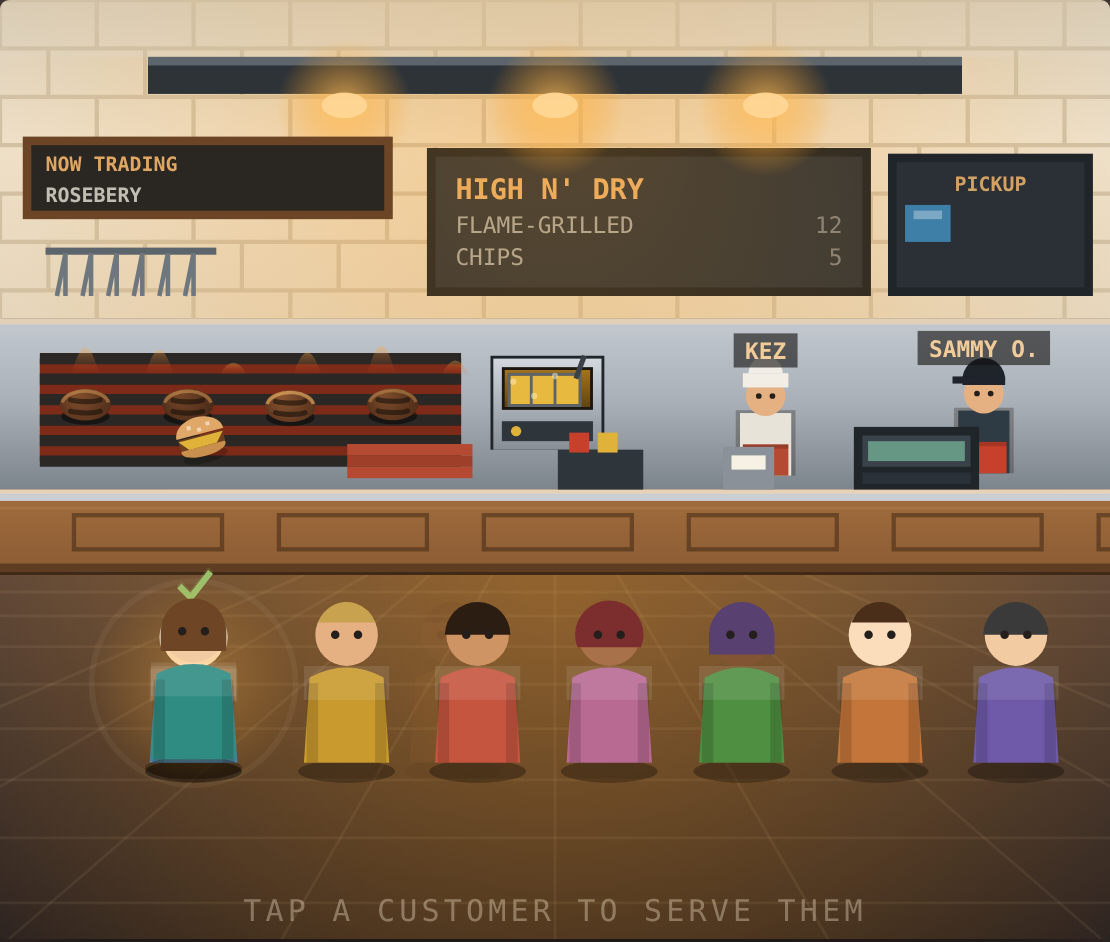
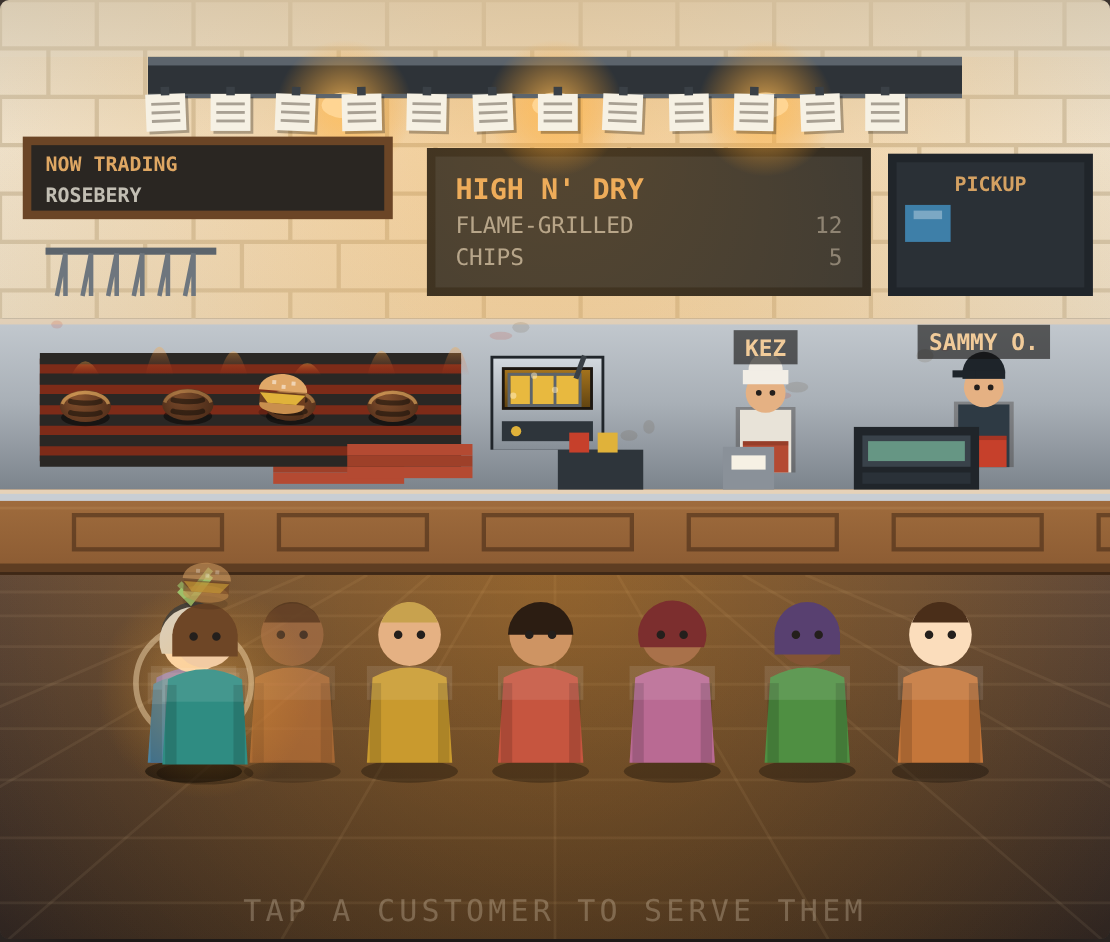
E4: the ambient density curve
The tier ladder is stepped; this is what stops there being a flat stretch between
the steps. Off total units owned: a docket rail hanging from the heat-lamp bar
that fills with orders, trays stacking by the pass, mess accumulating on the
bench, and a crew that visibly works faster as the shop gets going.

Mess positions are deterministic so nothing twitches between frames.

The rail first went across the bays and was almost entirely hidden behind the
fryer and the crew. It now hangs off the lamp bar, where a real one does.

Claude-Session: https://claude.ai/code/session_01Nf1L2bLaTRsJDxqU3yBDPc

diff --git a/high-n-dry-clicker/src/ui/scene.ts b/high-n-dry-clicker/src/ui/scene.ts
@@ -156,6 +156,12 @@ export interface Business {
   /** Who is standing where, by generator index. */
   staffNames: Record<number, string>;
   /**
+   * 0..1 how much shop there is, from total units owned. Drives the continuous stuff — dockets on
+   * the rail, mess on the bench, trays, how fast the crew move. The tier ladder is stepped; this
+   * is what stops there being a flat stretch between the steps (PLAN_THE_LINE.md 2.5).
+   */
+  density: number;
+  /**
    * Tier upgrades owned per generator, 0-3 (the x2s at 10/25/50 owned). Each step physically
    * replaces the equipment — see PLAN_THE_LINE.md 2.1. Until this landed, the 36 most
    * significant purchases in the game were invisible.
@@ -180,6 +186,7 @@ export class Scene {
     busy: 0,
     autoServesPerSecond: 0,
     staffNames: {},
+    density: 0,
     tiers: [],
   };
 
@@ -616,9 +623,11 @@ export class Scene {
     this.drawMenuBoard();
     this.drawLamp(t);
     this.drawBench();
+    this.drawBenchClutter();
     this.drawGrill(t);
     this.drawPatties(t);
     this.drawStations(t);
+    this.drawDocketRail();
     this.drawSmoke();
     this.drawGrease();
     this.drawCounter();
@@ -1380,7 +1389,8 @@ export class Scene {
     role: "cook" | "server",
   ): void {
     const ctx = this.ctx;
-    const bob = Math.sin(t * 3 + phase) * 1.2;
+    // They work faster when the shop is going — the crew are part of the tempo readout.
+    const bob = Math.sin(t * (3 + this.business.busy * 3.5) + phase) * (1.2 + this.business.busy * 0.7);
     const y = groundY + bob;
     // Whites on a light stainless bench need an edge or they dissolve into it.
     ctx.fillStyle = "rgba(40,30,22,0.3)";
@@ -1444,6 +1454,67 @@ export class Scene {
     // Lamplight catching the front lip of the stainless.
     ctx.fillStyle = "rgba(255,214,160,0.5)";
     ctx.fillRect(0, BENCH_TOP, W, 2);
+  }
+
+  /**
+   * The bench, lived-in. A docket rail that fills up, trays that stack, and mess that accumulates
+   * — all off `density`, all deterministic so nothing twitches between frames.
+   */
+  private drawBenchClutter(): void {
+    const ctx = this.ctx;
+    const d = this.business.density;
+
+    // Trays stacked by the pass. A busy shop runs through them.
+    const trays = 1 + Math.round(d * 5);
+    for (let i = 0; i < trays; i += 1) {
+      ctx.fillStyle = i % 2 === 0 ? "#B44A32" : "#9E4029";
+      ctx.fillRect(96, COUNTER_TOP - 6 - i * 4, 46, 4);
+    }
+
+    // Mess. Deterministic positions so it never twitches, and it only ever accumulates.
+    const spots = Math.round(d * 14);
+    for (let i = 0; i < spots; i += 1) {
+      const x = 20 + ((i * 6151) % (W - 40));
+      const y = BENCH_TOP + 2 + ((i * 3719) % 46);
+      ctx.fillStyle = i % 3 === 0 ? "rgba(198,64,43,0.16)" : "rgba(90,70,40,0.14)";
+      ctx.beginPath();
+      ctx.ellipse(x, y, 2 + ((i * 13) % 4), 1.4 + ((i * 7) % 3) * 0.5, 0, 0, Math.PI * 2);
+      ctx.fill();
+    }
+  }
+
+  /**
+   * Orders on. Hangs off the heat-lamp bar where a real rail does, and fills as the business
+   * grows. Purely scenery — it says how much work is on, it isn't a control. (The docket-to-rail
+   * *interaction* was cut in M2 because it read as an instruction; this is the furniture.)
+   */
+  private drawDocketRail(): void {
+    const ctx = this.ctx;
+    const tickets = Math.round(this.business.density * 12);
+    if (tickets === 0) return;
+
+    const railY = LAMP_BAR_Y + 13;
+    ctx.fillStyle = "#5C646C";
+    ctx.fillRect(52, railY, W - 104, 1.5);
+
+    for (let i = 0; i < tickets; i += 1) {
+      const x = 58 + i * 23;
+      if (x > W - 62) break;
+      const lean = (((i * 37) % 5) - 2) * 0.02;
+      ctx.save();
+      ctx.translate(x, railY);
+      ctx.rotate(lean);
+      ctx.fillStyle = "rgba(0,0,0,0.28)";
+      ctx.fillRect(-6, 1, 14, 13);
+      ctx.fillStyle = "#F6F1E4";
+      ctx.fillRect(-7, 0, 14, 13);
+      ctx.fillStyle = "rgba(90,80,66,0.5)";
+      for (let l = 0; l < 3; l += 1) ctx.fillRect(-5, 3 + l * 3, 10, 1);
+      // The peg it hangs on.
+      ctx.fillStyle = "#3A4046";
+      ctx.fillRect(-1.5, -2.5, 3, 3);
+      ctx.restore();
+    }
   }
 
   private drawGrill(t: number): void {

diff --git a/high-n-dry-clicker/src/ui/App.tsx b/high-n-dry-clicker/src/ui/App.tsx
@@ -213,6 +213,7 @@ export default function App(): JSX.Element {
         busy,
         autoServesPerSecond: Math.min(4, Math.log10(1 + d.cps) * 0.5),
         staffNames: staffNames(state),
+        density: Math.min(1, Math.log10(1 + totalGenerators(state)) / 2.4),
         tiers: stationTiers(state),
       });
       audio.setBusy(busy);
